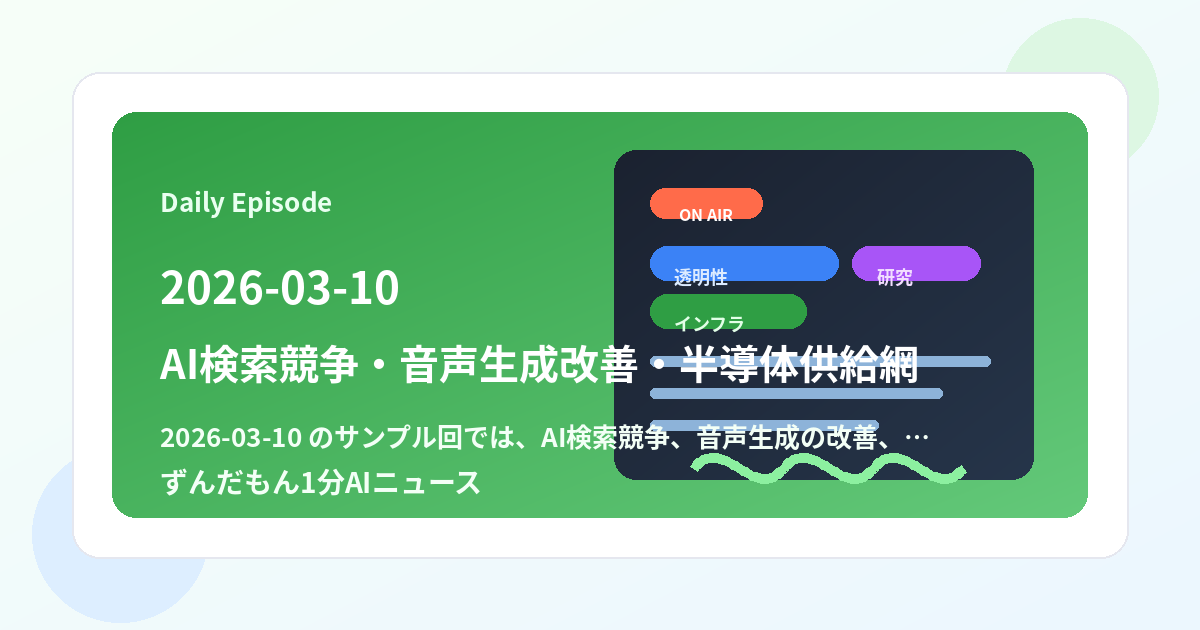
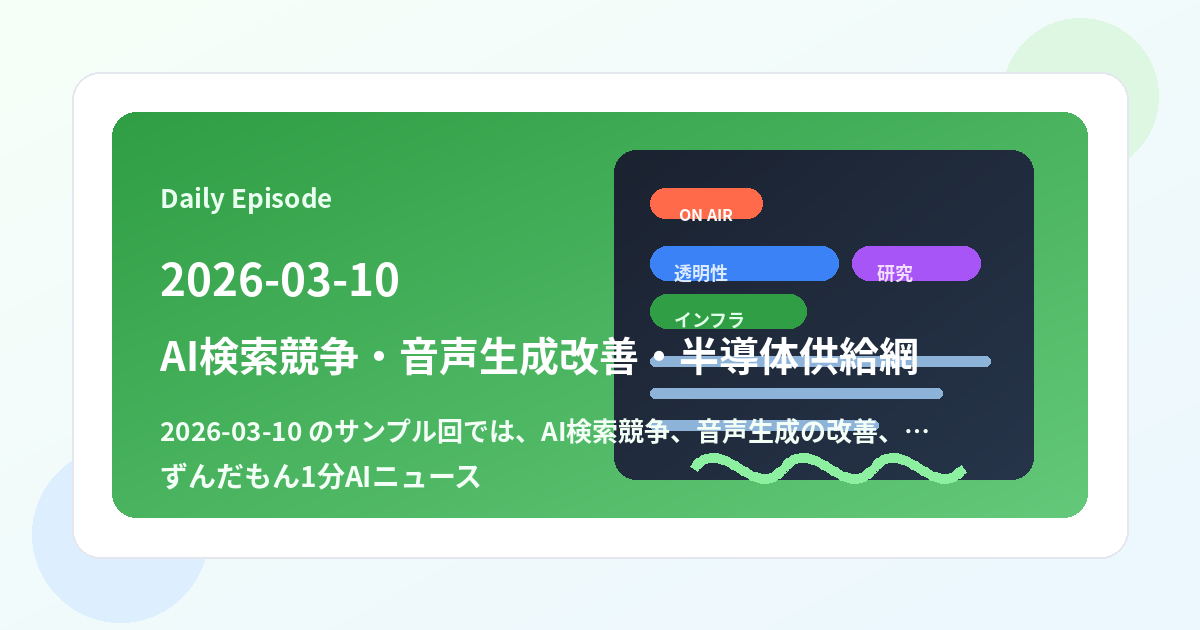
Adjust OGP text vertical alignment

diff --git a/scripts/render_ogp.py b/scripts/render_ogp.py
@@ -20,9 +20,9 @@ ACCENT_CARD = (112, 112, 1088, 518, 24)
 SCREEN_CARD = (614, 150, 1034, 480, 22)
 ON_AIR_BOX = (650, 188, 762, 218, 15)
 CHIPS = [
-    ((650, 246, 838, 280, 17), (59, 130, 246, 46), '透明性', (674, 268), (220, 235, 255, 255)),
-    ((852, 246, 980, 280, 17), (168, 85, 247, 46), '研究', (877, 268), (242, 222, 255, 255)),
-    ((650, 294, 806, 328, 17), (47, 158, 68, 51), 'インフラ', (674, 316), (226, 255, 231, 255)),
+    ((650, 246, 838, 280, 17), (59, 130, 246, 46), '透明性', (674, 264), (220, 235, 255, 255)),
+    ((852, 246, 980, 280, 17), (168, 85, 247, 46), '研究', (877, 264), (242, 222, 255, 255)),
+    ((650, 294, 806, 328, 17), (47, 158, 68, 51), 'インフラ', (674, 312), (226, 255, 231, 255)),
 ]
 BARS = [
     ((650, 356, 990, 366, 5), (141, 179, 217, 76)),
@@ -35,11 +35,11 @@ WAVE_SEGMENTS = [
     ((874, 468), (904, 430), (934, 506), (964, 468)),
 ]
 DEFAULT_TEXT_NODES = [
-    ('Daily AI Audio Brief', (160, 190), 26, True, (233, 255, 240, 255), 'la'),
-    ('ずんだもん', (160, 284), 64, True, (255, 255, 255, 255), 'la'),
-    ('1分AIニュース', (160, 362), 64, True, (255, 255, 255, 255), 'la'),
-    ('AIニュースを、ずんだもんの声で', (160, 430), 28, True, (243, 255, 246, 255), 'la'),
-    ('1分前後にまとめてお届け', (160, 468), 28, True, (243, 255, 246, 255), 'la'),
+    ('Daily AI Audio Brief', (160, 186), 26, True, (233, 255, 240, 255), 'la'),
+    ('ずんだもん', (160, 274), 64, True, (255, 255, 255, 255), 'la'),
+    ('1分AIニュース', (160, 352), 64, True, (255, 255, 255, 255), 'la'),
+    ('AIニュースを、ずんだもんの声で', (160, 424), 28, True, (243, 255, 246, 255), 'la'),
+    ('1分前後にまとめてお届け', (160, 462), 28, True, (243, 255, 246, 255), 'la'),
 ]
 
 
@@ -202,11 +202,11 @@ def main() -> None:
         title = trim_text(args.title or 'ずんだもん1分AIニュース', 20)
         summary = trim_text(args.summary or '公開情報をもとに独自要約したAIニュースをお届け', 36)
         text_nodes = [
-            ('Daily Episode', (160, 190), 26, True, (233, 255, 240, 255), 'la'),
-            (date, (160, 270), 44, True, (255, 255, 255, 255), 'la'),
-            (title, (160, 344), 40, True, (255, 255, 255, 255), 'la'),
-            (summary, (160, 424), 26, True, (243, 255, 246, 255), 'la'),
-            ('ずんだもん1分AIニュース', (160, 468), 28, True, (243, 255, 246, 255), 'la'),
+            ('Daily Episode', (160, 186), 26, True, (233, 255, 240, 255), 'la'),
+            (date, (160, 262), 44, True, (255, 255, 255, 255), 'la'),
+            (title, (160, 336), 40, True, (255, 255, 255, 255), 'la'),
+            (summary, (160, 418), 26, True, (243, 255, 246, 255), 'la'),
+            ('ずんだもん1分AIニュース', (160, 462), 28, True, (243, 255, 246, 255), 'la'),
         ]
         render_ogp(out_path=ROOT / 'assets' / f'ogp-{date}.png', text_nodes=text_nodes)
         return
